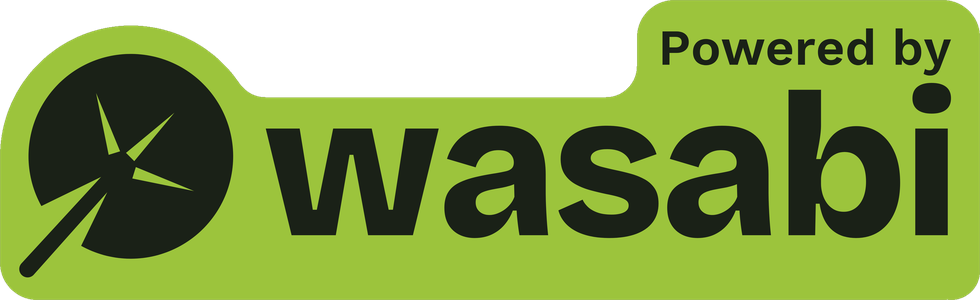
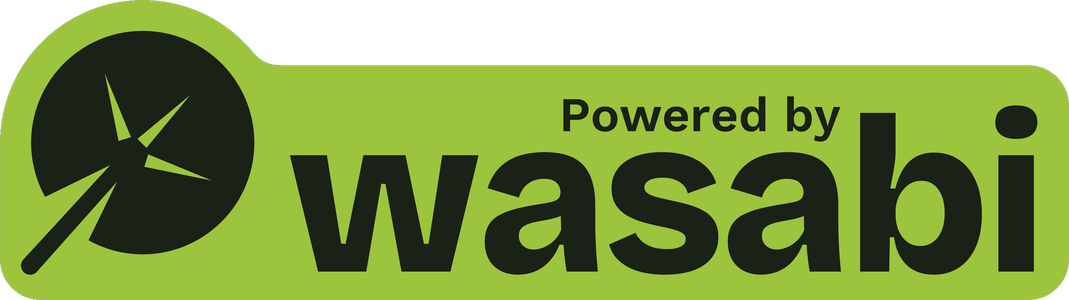
Welcome badge: "Powered by" tucked in before the b, leaf raised
"Powered by" now sits above "wasa", ending before the b, so the badge
has no tab. The leaf is raised so its stem ends on the letters' baseline.

Claude-Session: https://claude.ai/code/session_01JPPWy6yUSPjDnAeVwCrzYx

diff --git a/styles.css b/styles.css
@@ -315,7 +315,7 @@ button.mitem:hover,a.mitem:hover,button.mitem:focus-visible,a.mitem:focus-visibl
 .hello-name{display:block;max-width:80vw;background:var(--accent);color:var(--accent-ink);font-family:var(--display);text-transform:var(--dcase,uppercase);
   font-weight:700;font-size:40px;line-height:1.05;text-align:center;padding:22px 28px;border-radius:24px;border:8px solid #fff;box-shadow:0 10px 24px rgba(0,0,0,.25)}
 .hello-tap{margin-top:30px;margin-bottom:auto;color:#f6f4ee;font-size:16px;font-weight:600;letter-spacing:.01em}
-/* "Powered by Wasabi": a wasabi-green die-cut badge (img/brand/powered-by-wasabi.png): round bump around the leaf, a tab for "Powered by". */
+/* "Powered by Wasabi": a wasabi-green die-cut badge (img/brand/powered-by-wasabi.png): round bump around the leaf, "Powered by" tucked in before the b; the stem ends on the letters' baseline. */
 .hello-by{display:block;animation:hello-pop .35s .12s cubic-bezier(.2,.9,.3,1.25) both}
 .hello-wasabi{display:block;height:72px;width:auto;filter:drop-shadow(0 4px 10px rgba(0,0,0,.28))}
 body.hello-on{overflow:hidden}
